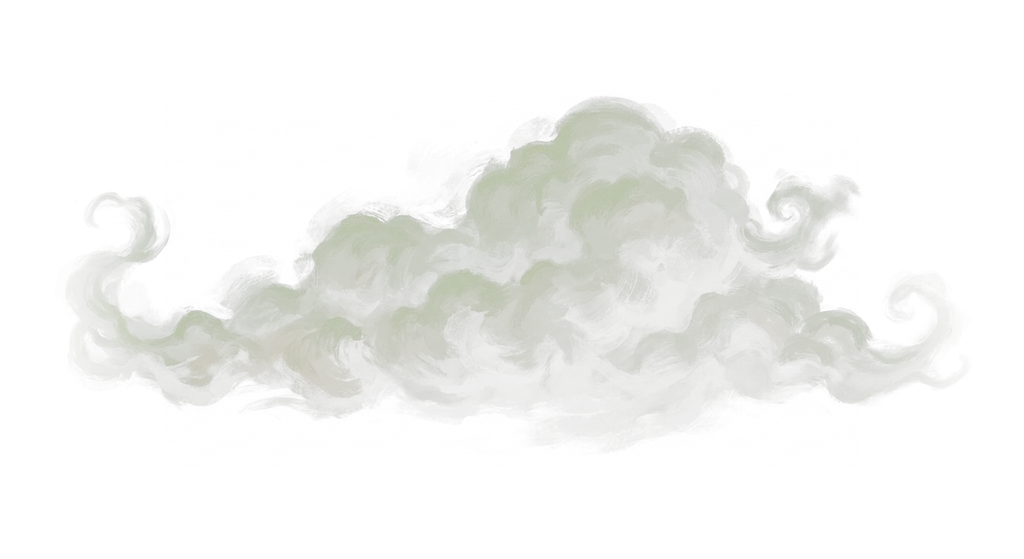
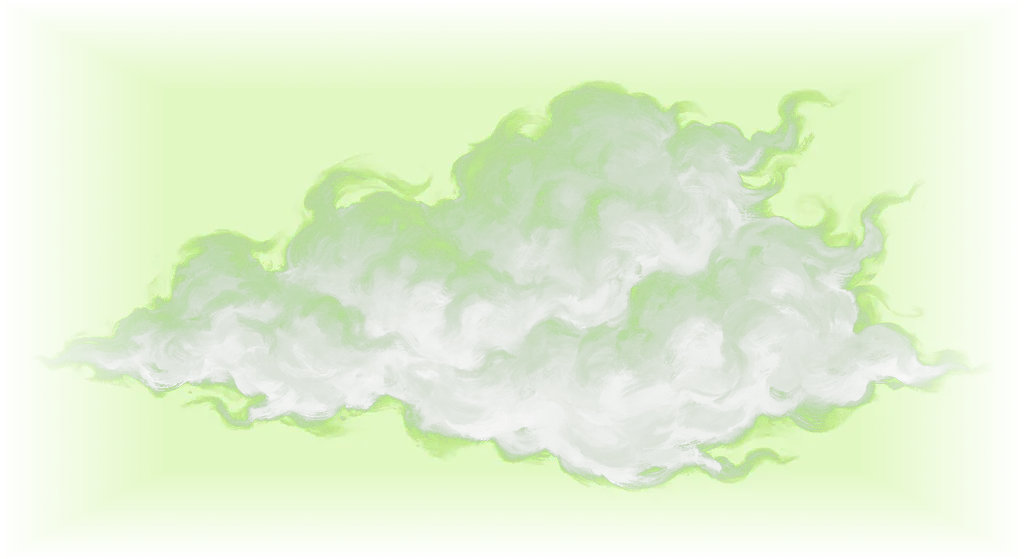
The gas is green light, and it is one burst
What was wrong was in the plate, not the motion. The model paints smoke as white-grey with a green
heart, and white laid over a page with screen does not read as gas — it reads as a grey wash over
everything under it, which is exactly what it looked like. Brightness is now the colour as well as the
alpha: nothing at the bottom, the accent through the body, a pale edge where the gas is thinnest. The
plate is green light rather than white smoke, so it adds light instead of washing the page out.

And it is a burst now, not a swell: each pair starts far smaller, opens much wider, and is gone in
about two and a half seconds instead of four. The whole thing clears in 3.2.

Pins and the tools/vm delete ride along: a card pins from its own button, the top bar counts them, and
the list dies with the tab until accounts land. tools/vm described deploying to a server that never
existed — the jobs have only ever run on GitHub Actions, and the README says so now.

diff --git a/assets/app.css b/assets/app.css
@@ -883,7 +883,7 @@ small.at-bonus{display:block}
    one is poured and that one hangs. CSS alone, four layers on their own loops, and the whole thing takes
    itself off the page when it is done. */
 .cheat{position:fixed; inset:0; z-index:300; display:grid; place-items:center; pointer-events:none;   /* over everything the site draws, which tops out at 200 */
-  animation:cheat-out .5s ease-in 3.7s both}
+  animation:cheat-out .45s ease-in 2.75s both}
 /* the words are the crest's own badge, forged the same way (tools/art.py cheat-words), not a typeface */
 .cheat-said{position:relative; z-index:2;   /* the gas is poured over it, not in front of it */
   width:min(560px, 82vw); height:auto; margin:0;
@@ -896,28 +896,28 @@ small.at-bonus{display:block}
   transform-origin:50% 50%; opacity:0; will-change:transform, opacity; pointer-events:none}
 .cheat-pair img{display:block; width:min(560px, 52vw); height:auto; mix-blend-mode:screen}
 .cheat-pair .flip{transform:scaleX(-1)}
-.g1{animation:cheat-out-1 3.4s cubic-bezier(.12,.62,.24,1) both}
-.g2{animation:cheat-out-2 4.3s cubic-bezier(.12,.62,.24,1) .22s both}
-.g3{animation:cheat-out-3 3.8s cubic-bezier(.12,.62,.24,1) .5s both}
+.g1{animation:cheat-out-1 2.2s cubic-bezier(.08,.72,.2,1) both}
+.g2{animation:cheat-out-2 2.9s cubic-bezier(.08,.72,.2,1) .12s both}
+.g3{animation:cheat-out-3 2.5s cubic-bezier(.08,.72,.2,1) .3s both}
 @keyframes cheat-in{from{opacity:0; transform:translateY(8px) scale(.97)} to{opacity:1; transform:none}}
 @keyframes cheat-out{to{opacity:0}}
 @keyframes cheat-out-1{
-  0%{transform:translate(-50%, -50%) scale(.2); opacity:0}
-  16%{opacity:.6}
-  60%{opacity:.4}
-  100%{transform:translate(-50%, -50%) scale(1.55); opacity:0}
+  0%{transform:translate(-50%, -50%) scale(.08); opacity:0}
+  10%{opacity:.85}
+  50%{opacity:.55}
+  100%{transform:translate(-50%, -50%) scale(2.3); opacity:0}
 }
 @keyframes cheat-out-2{
-  0%{transform:translate(-50%, -50%) scale(.26) rotate(2deg); opacity:0}
-  20%{opacity:.5}
-  62%{opacity:.32}
-  100%{transform:translate(-50%, -50%) scale(1.75) rotate(-2deg); opacity:0}
+  0%{transform:translate(-50%, -50%) scale(.1) rotate(3deg); opacity:0}
+  12%{opacity:.7}
+  52%{opacity:.42}
+  100%{transform:translate(-50%, -50%) scale(2.9) rotate(-3deg); opacity:0}
 }
 @keyframes cheat-out-3{
-  0%{transform:translate(-50%, -50%) scale(.16); opacity:0}
-  18%{opacity:.42}
-  58%{opacity:.28}
-  100%{transform:translate(-50%, -50%) scale(1.95); opacity:0}
+  0%{transform:translate(-50%, -50%) scale(.06); opacity:0}
+  10%{opacity:.6}
+  48%{opacity:.34}
+  100%{transform:translate(-50%, -50%) scale(3.4); opacity:0}
 }
 @media (prefers-reduced-motion: reduce){
   .cheat{animation-duration:.4s; animation-delay:1.7s}

diff --git a/assets/suggest.js b/assets/suggest.js
@@ -102,7 +102,7 @@ function cheat(){
       '</span>').join('')) +
     '<img class="cheat-said" src="assets/brand/cheat-words.webp" alt="Cheat Code Activated" decoding="async">';
   document.body.appendChild(box);
-  setTimeout(() => box.remove(), still ? 2200 : 4200);
+  setTimeout(() => box.remove(), still ? 2000 : 3200);
 }
 
 function open(card){

diff --git a/tools/art.py b/tools/art.py
@@ -8,7 +8,11 @@ What comes back is a picture on a black field, and the black has to become nothi
 over anything. Two ways, because a gas and a badge are not the same thing:
   glow  the plate's own brightness is its alpha, so a wisp fades out the way it is painted, and the frame's
         own edges are faded out with it. A plate that reaches its edge shows that edge as a straight line
-        the moment it moves, which is the one thing gas must never have. Gas.
+        the moment it moves, which is the one thing gas must never have.
+        It is also taken into the site's own green. The model paints smoke as white-grey with a green heart,
+        and white laid over a page with screen does not read as gas — it reads as a grey wash over
+        everything under it. So brightness becomes the colour as well as the alpha: nothing at the bottom,
+        deep green through the body, the accent at the top. Gas.
   cut   only the black around the shape goes; the shape itself stays as solid as it was painted, so the dark
         metal of a letter is metal and not a hole. Lettering.
 Nothing is traced by hand afterwards.
@@ -114,14 +118,33 @@ def plate(raw, how=GLOW, width=1024):
         im = im.resize((width, round(im.height * width / im.width)), Image.LANCZOS)
     grey = im.convert('L')
     # cut: black is nothing, anything above a whisper is whole, with a short ramp between so no edge is a stair
-    alpha = grey.point(lambda v: 0 if v < 8 else min(255, (v - 8) * 12)) if how == CUT else grey
-    if how == GLOW:
-        alpha = feather(alpha)
-    out = im.convert('RGBA')
-    out.putalpha(alpha)
+    if how == CUT:
+        out = im.convert('RGBA')
+        out.putalpha(grey.point(lambda v: 0 if v < 8 else min(255, (v - 8) * 12)))
+    else:
+        out = tint(grey).convert('RGBA')
+        out.putalpha(feather(grey))
     buf = io.BytesIO()
     out.save(buf, 'WEBP', quality=82, method=6)
     return buf.getvalue()
+
+
+# the site's own green, dark to bright: the ground, the accent, and a pale edge where the gas is thinnest
+GREEN = ((6, 18, 4), (74, 150, 34), (160, 220, 80), (226, 248, 196))
+
+
+def tint(grey):
+    """Brightness read as a colour ramp, so the plate is green light and not white smoke."""
+    from PIL import Image
+    ramp = []
+    for v in range(256):
+        t = v / 255 * 3
+        i = min(2, int(t))
+        a, b, f = GREEN[i], GREEN[i + 1], t - i
+        ramp.append(tuple(round(a[c] + (b[c] - a[c]) * f) for c in range(3)))
+    out = Image.new('RGB', grey.size)
+    out.putdata([ramp[v] for v in grey.getdata()])
+    return out
 
 
 def feather(alpha, part=0.16):
